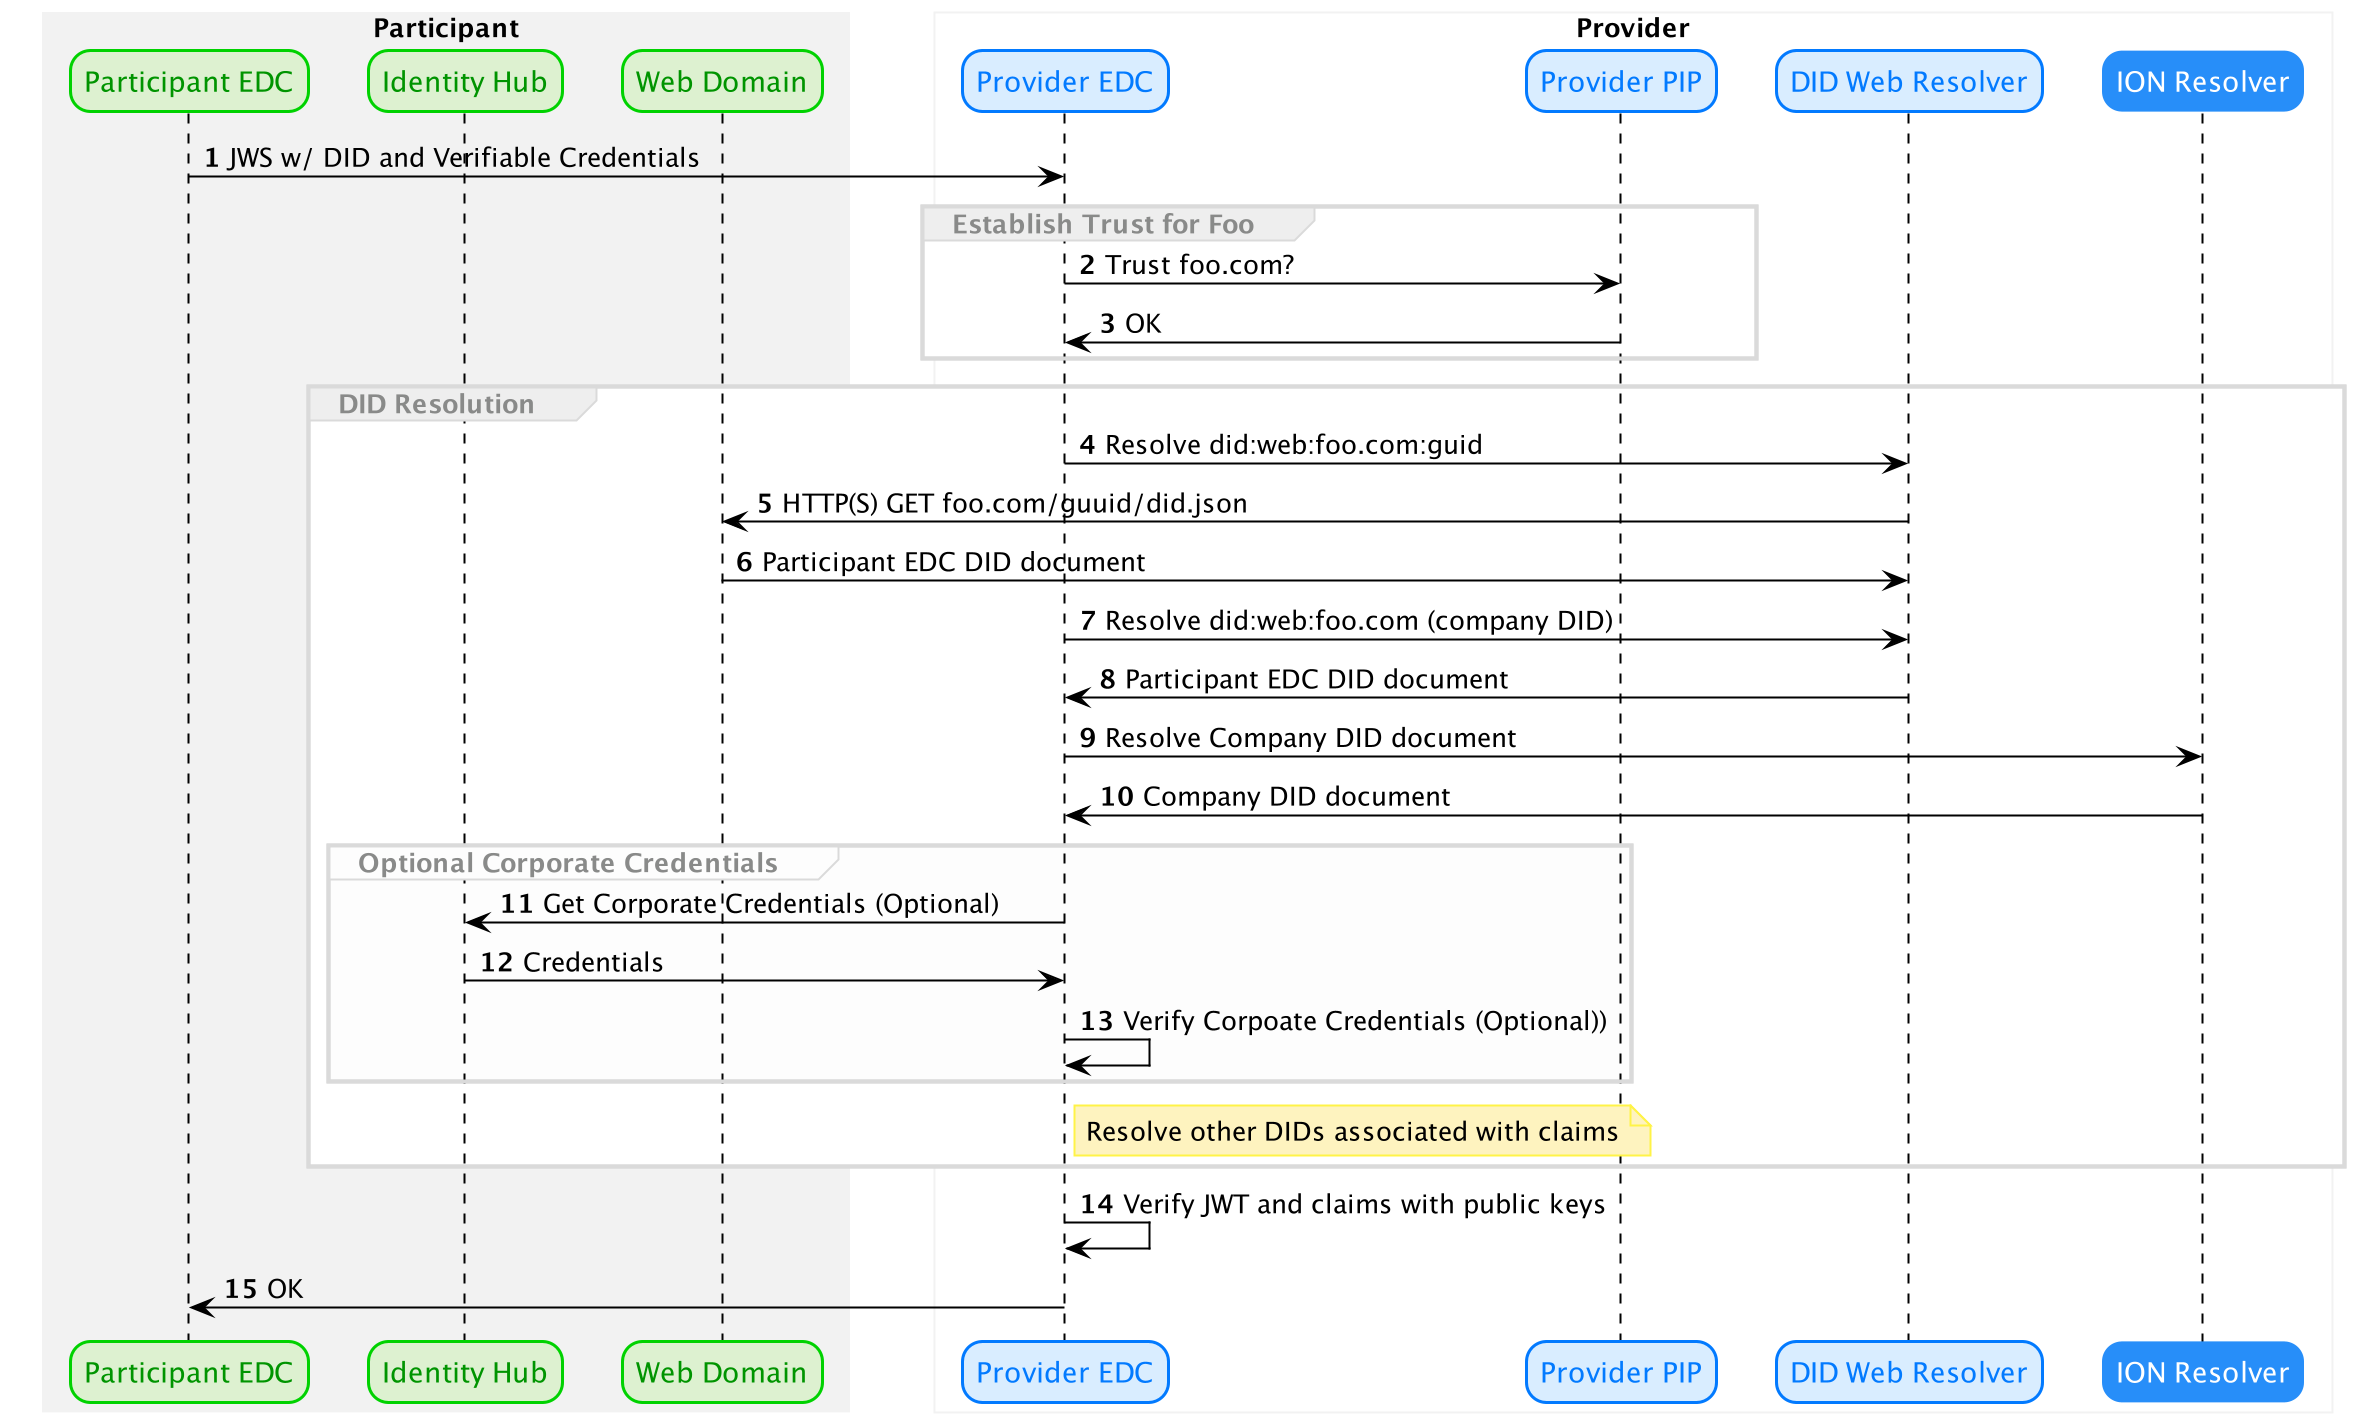
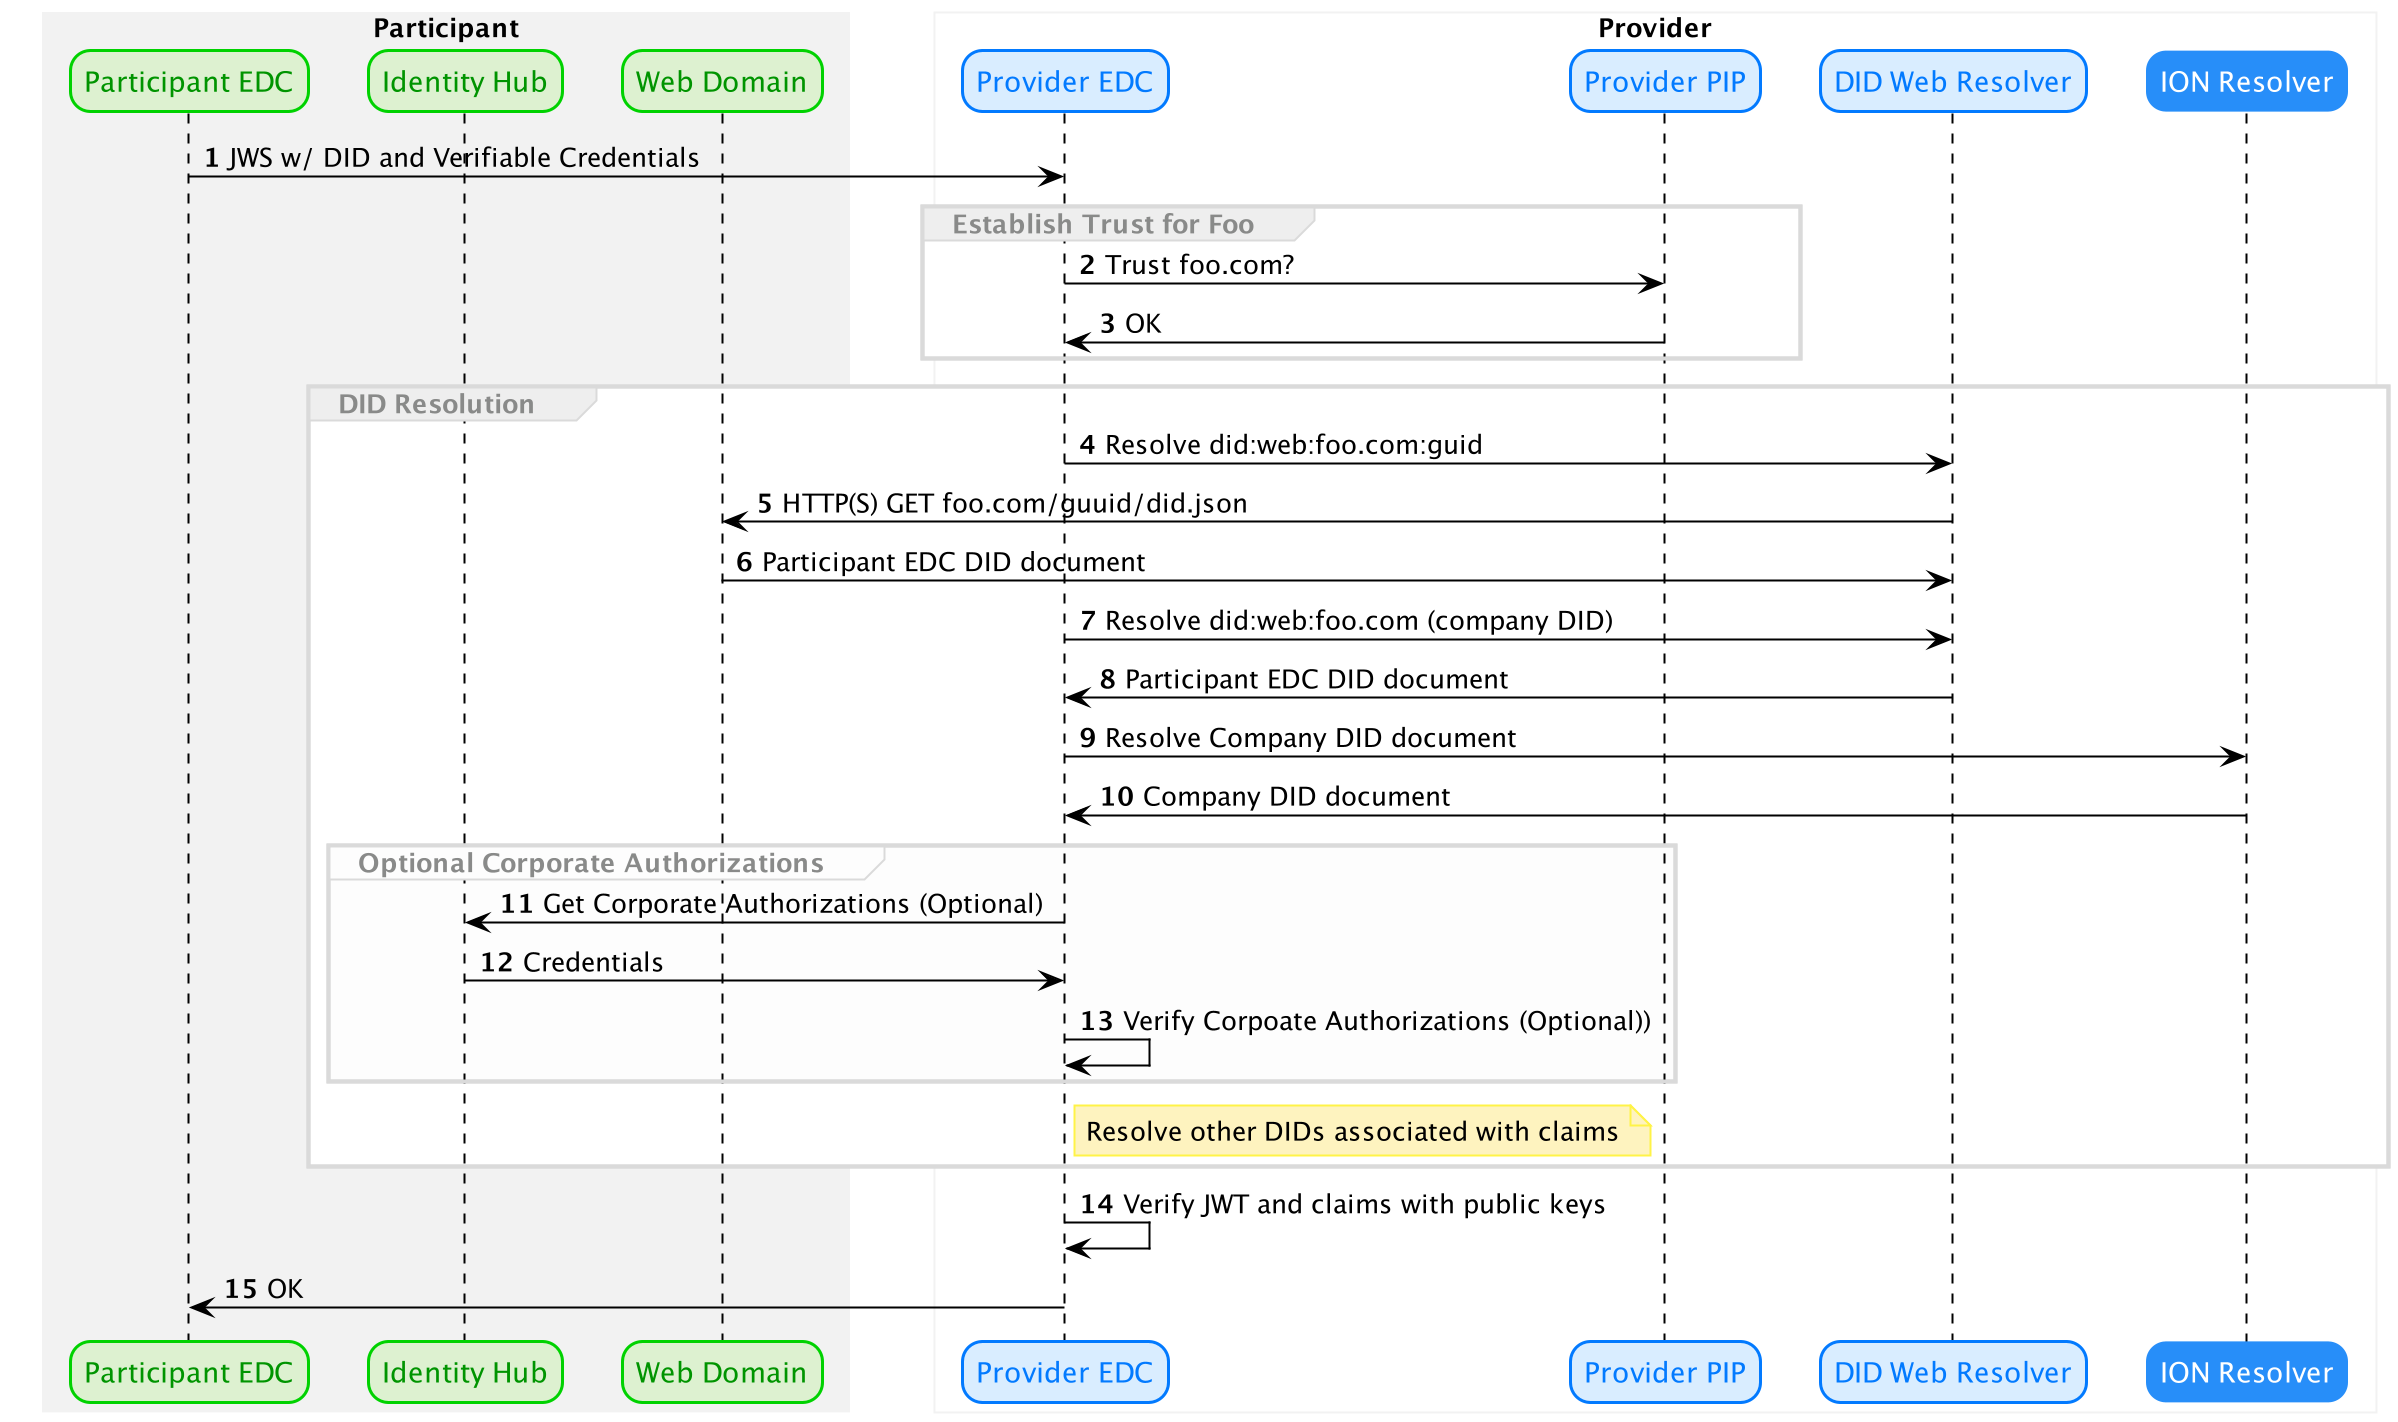
Add changes from Stefan

diff --git a/README.md b/README.md
@@ -33,7 +33,7 @@ The key attributes of the All DID Web flow are:
 
 The corporate and EDC DIDs have a slightly different structure.
 
-#### Corporate DID Document & Credentials
+#### Corporate DID Document & Authorizations
 - Contains a service endpoint pointing to a _Self-Description_
 - Contains a service endpoint pointing to an _Identity Hub_
 - The _Identity Hub_ contains 0..N verifiable credentials pertaining to the company
